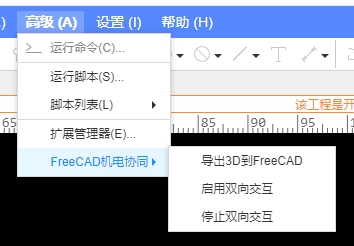
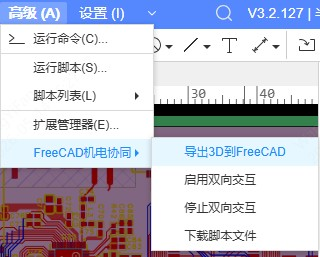
feat: 新增下载脚本文件菜单项，一键保存FreeCAD交互脚本
1. 新增菜单配置和国际化文案
2. 实现脚本保存下载功能
3. 补充文档说明新功能
4. 调整esbuild配置以正确加载python脚本文件
5. 更新CHANGELOG和本地化文件

diff --git a/src/index.ts b/src/index.ts
@@ -1,4 +1,5 @@
 import * as extensionConfig from '../extension.json';
+import freecadScriptContent from '../script/Interactive-with-easyeda.py';
 
 const FREECAD_WEBSOCKET_ID = 'freecad-pcb-exporter';
 const DEFAULT_FREECAD_ADDRESS = 'ws://localhost:8766';
@@ -609,4 +610,28 @@ export function checkFreeCADConnection(): void {
 		eda.sys_I18n.text('FreeCAD连接状态: ${1}', undefined, undefined, wsReady ? eda.sys_I18n.text('已连接') : eda.sys_I18n.text('未连接')),
 		wsReady ? ESYS_ToastMessageType.SUCCESS : ESYS_ToastMessageType.WARNING,
 	);
+}
+
+// ==================== 保存FreeCAD脚本 ====================
+
+export async function copyFreeCADScript(): Promise<void> {
+	const text = freecadScriptContent as string;
+	if (!text) {
+		eda.sys_Message.showToastMessage(eda.sys_I18n.text('脚本内容为空'), ESYS_ToastMessageType.ERROR);
+		return;
+	}
+	try {
+		const blob = new Blob([text], { type: 'text/x-python' });
+		await eda.sys_FileSystem.saveFile(blob, 'Interactive-with-easyeda.py');
+		eda.sys_Message.showToastMessage(
+			eda.sys_I18n.text('FreeCAD脚本已保存，请在FreeCAD中打开该文件运行'),
+			ESYS_ToastMessageType.SUCCESS,
+		);
+	}
+	catch (error) {
+		eda.sys_Message.showToastMessage(
+			eda.sys_I18n.text('保存脚本失败: ${1}', undefined, undefined, (error as Error).message),
+			ESYS_ToastMessageType.ERROR,
+		);
+	}
 }

diff --git a/config/esbuild.common.ts b/config/esbuild.common.ts
@@ -8,7 +8,7 @@ export default {
 	assetNames: '[name]',
 	bundle: true, // 用于内部方法调用，请勿修改
 	minify: false, // 用于内部方法调用，请勿修改
-	loader: {},
+	loader: { '.py': 'text' },
 	outdir: './dist/',
 	sourcemap: undefined,
 	platform: 'browser', // 用于内部方法调用，请勿修改

diff --git a/README.md b/README.md
@@ -9,6 +9,7 @@
 | 功能      | 说明                                 |
 | ------- | ---------------------------------- |
 | 3D 模型导出 | 将 PCB 的 STEP 模型分片传输到 FreeCAD，支持大文件 |
+| 下载脚本文件  | 一键保存 FreeCAD 宏脚本到本地，免去手动复制          |
 | 双向位置同步  | EDA 拖动元件 → FreeCAD 跟着动，反之亦然        |
 | 交叉定位    | 点击一边的元件，另一边自动聚焦                    |
 | 删除同步    | EDA 删除元件，FreeCAD 同步移除              |
@@ -35,7 +36,10 @@
 2. 顶部菜单栏点击 **宏** → **宏编辑器**（或按 `Alt+F8`）
    ![FreeCAD 打开宏编辑器的菜单位置](images/1.jpg)
 3. 在宏编辑器中点击 **新建**（或 `Ctrl+N`）创建新宏
-4. 打开本项目 [script/Interactive-with-easyeda.py](https://github.com/easyeda/eext-mcad-integration-with-freecad/blob/main/script/Interactive-with-easyeda.py) 文件，将全部内容复制粘贴到宏编辑器中
+4. 打开本项目 [script/Interactive-with-easyeda.py](https://github.com/easyeda/eext-mcad-integration-with-freecad/blob/main/script/Interactive-with-easyeda.py) 文件，将全部内容复制粘贴到宏编辑器中（脚本文件也可以通过菜单 **FreeCAD机电协同** → **下载脚本文件**，一键保存到本地）
+
+![](images/12.jpg)
+
 5. 点击 **保存**（`Ctrl+S`），将宏命名，保存到默认宏目录
 6. 点击 **执行或双击执行**（绿色三角形按钮，或 `Ctrl+F5`）运行脚本
    ![操作流程](images/2.jpg)
@@ -81,8 +85,10 @@ FreeCAD环境已检测，服务器已启动
 
 3 上传完成后 FreeCAD 开始导入，EDA 显示「正在导入STEP文件到FreeCAD...」
 
-4 导入完成，EDA 显示「PCB导入完成」，FreeCAD 中显示 3D 模型
 ![进行中](images/11.jpg)
+
+4 导入完成，EDA 显示「PCB导入完成」，FreeCAD 中显示 3D 模型
+
 ![FreeCAD 中导入成功的 3D 模型](images/6.jpg)
 
 > **注意：** 大文件（元件多、3D 模型复杂）导入可能需要数分钟。导入期间 FreeCAD 界面会无响应，这是正常现象。后台心跳会持续保活连接，不会断开。
@@ -104,7 +110,7 @@ FreeCAD环境已检测，服务器已启动
    - **在 EDA 中点击元件** → FreeCAD 自动选中并聚焦
    - **在 FreeCAD 中点击对象** → EDA 自动定位到对应元件
 
-![双向同步效果](imagesimages/9.jpg)
+![双向同步效果](images/9.jpg)
 
 ### 三、停止双向交互
 

diff --git a/CHANGELOG.md b/CHANGELOG.md
@@ -1,5 +1,7 @@
 # 1.1.0
 
+新增"下载脚本文件"菜单项，一键将 FreeCAD 交互脚本保存到本地
+
 # 1.0.0
 
 初始版本